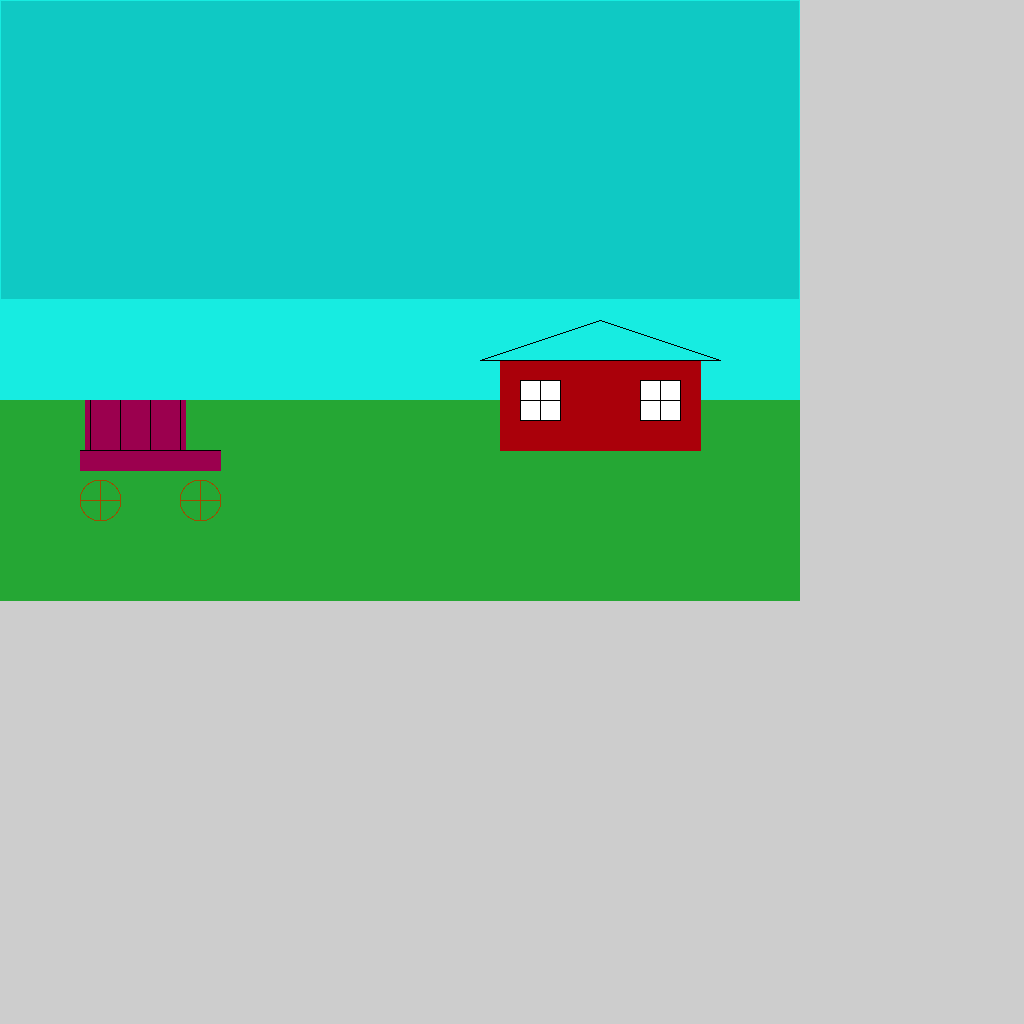
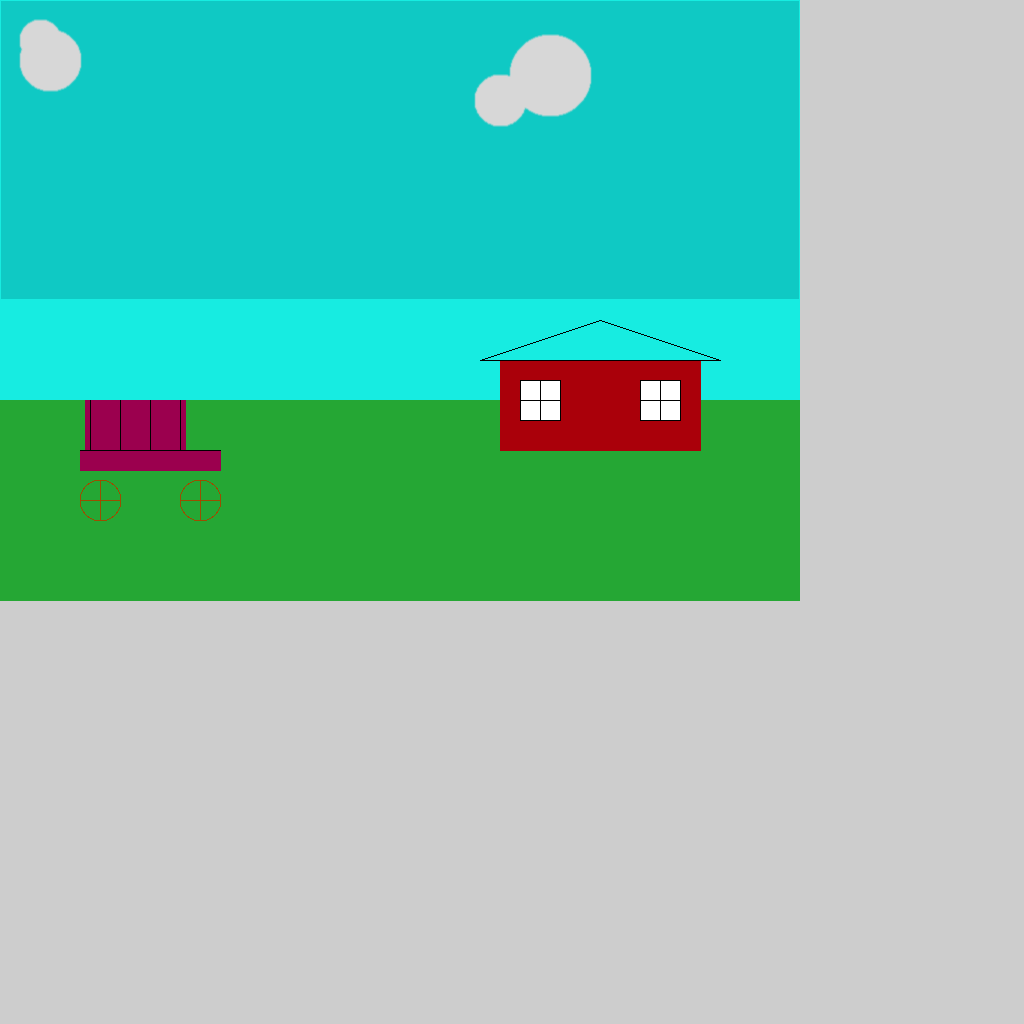
Added Clouds
Realized I wasn't really blurring anything before. Added clouds to be
blurred.

Changed region(s): [[0.4688, 0.0312, 0.5938, 0.125], [0.0, 0.0, 0.0938, 0.0938]]

diff --git a/src/CatPictureApp.cpp b/src/CatPictureApp.cpp
@@ -419,7 +419,13 @@ void CatPictureApp::update()
 	addLine(540, 380, 540, 420, Color8u(0,0,0));
 	//roof
 	addTriangle(480,360,600,320,720,360, Color8u(0,0,0));
-	
+	//clouds
+	addCircle(dataArray, 20, 40, 40, Color8u(255,255,255), true);
+	addCircle(dataArray, 30, 50, 60, Color8u(255,255,255), true);
+	addCircle(dataArray, 25, 500, 100, Color8u(255,255,255), true);
+	addCircle(dataArray, 40, 550, 75, Color8u(255,255,255), true);
+
+
 	blur(dataArray);
 
 	//write image to a file
